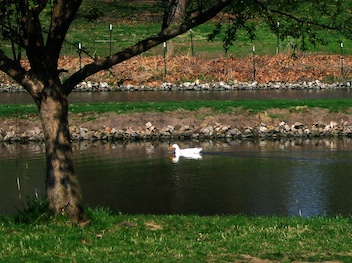
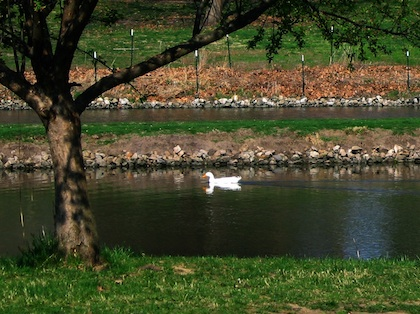
Adjust size of duck image, and comment out the rest of the old 'sun' radial gradient code.

diff --git a/js/sunset.js b/js/sunset.js
@@ -72,10 +72,10 @@
 //			    ctx.fillRect(0, 0, canvas.width, horizon);
 //			    ctx.fillStyle = bggradsun;
 				ctx.drawImage(imageObj,0,0);
-			    ctx.beginPath();
-			    ctx.arc(canvas.width * 0.4, height * 0.72, sunRadius, 0, Pi2, true);
-			    ctx.closePath();
-			    ctx.fill();
+//			    ctx.beginPath();
+//			    ctx.arc(canvas.width * 0.4, height * 0.72, sunRadius, 0, Pi2, true);
+//			    ctx.closePath();
+//			    ctx.fill();
 			    if(bggradmouse) {
 			       ctx.fillStyle = bggradmouse;
 			       ctx.beginPath();
